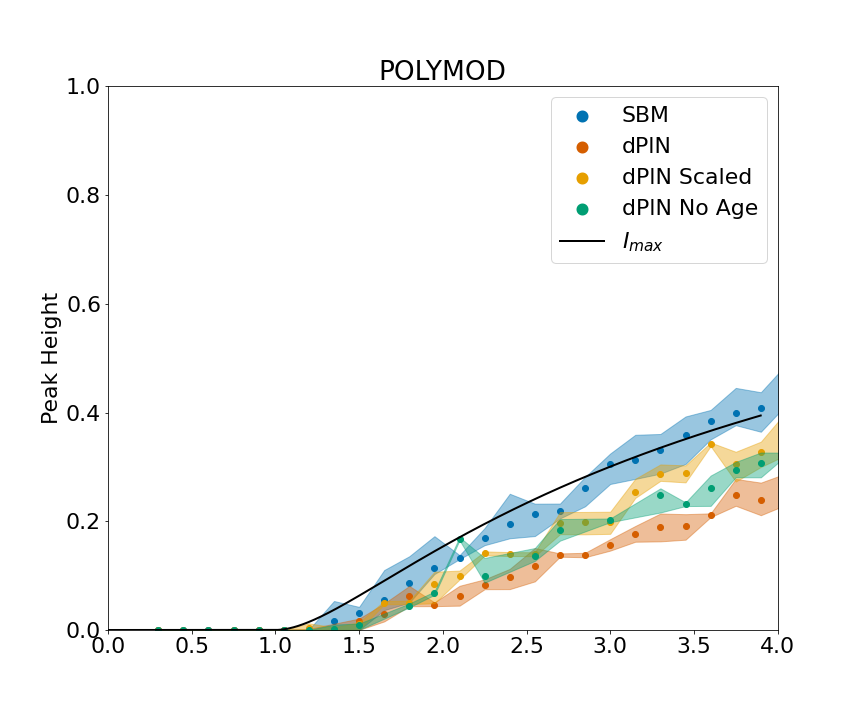
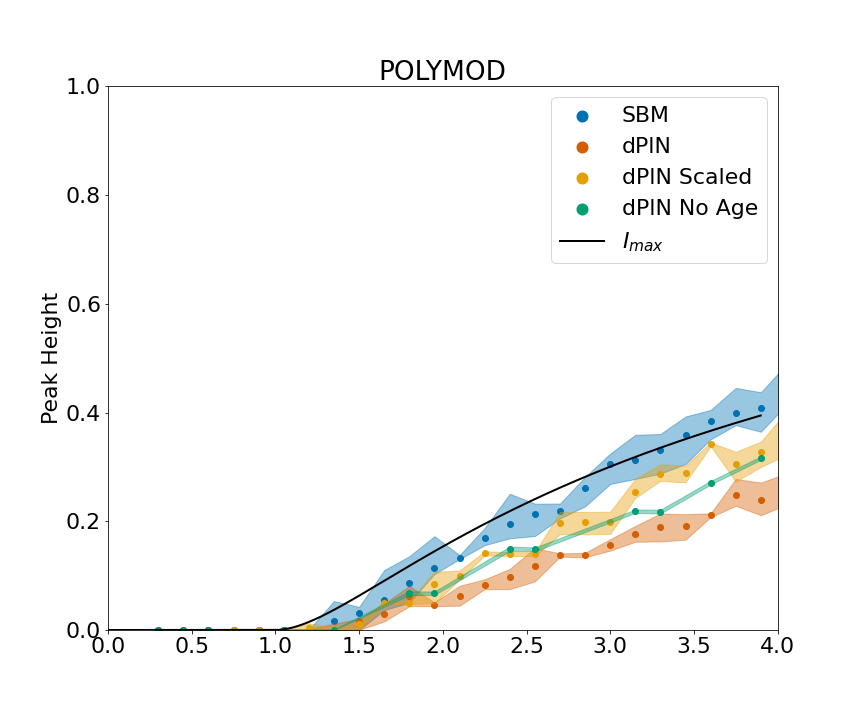
no age comix2 fixes

Changed region(s): [[0.4375, 0.6111, 0.9062, 0.8556], [0.375, 0.8556, 0.4375, 0.8861]]

diff --git a/_final_sellke_noage_c2.py b/_final_sellke_noage_c2.py
@@ -22,7 +22,7 @@ scales = ['fit1']
 
 ## 0,1
 # taus = [[np.arange(0.001,0.07,0.002)]]
-# taus = [[np.arange(0.001,0.07,0.002)]]
+taus = [[np.arange(0.001,0.07,0.002)]]
 # taus = [[np.arange(0.001,0.05,0.002)]]
 # taus = [[10*x for x in a] for a in taus]
 ## 2,3
@@ -32,7 +32,7 @@ scales = ['fit1']
 # taus = [[20*x for x in a] for a in taus]
 ## 4,5
 # taus = [[np.arange(0.001,0.07,0.001)]]
-taus = [[np.arange(0.001,0.05,0.001)]]
+# taus = [[np.arange(0.001,0.05,0.001)]]
 # taus = [[np.arange(0.001,0.05,0.002)]]
 
 
@@ -47,6 +47,6 @@ for i, data in enumerate(datas):
         df = pd.read_csv(f'input_data/{data}.csv')
         _, contact_matrix, params = nd_p.fit_to_data(df=df,dist_type=model, buckets=buckets, save_fig=False)
         result = nd_p.big_sellke_sims(partitions=partitions,contact_matrix=contact_matrix,network_params=params,n=n,dist_type=model,num_networks=1,iterations=iters, taus=taus[i][j],prop_infec=10/n, scaling=scales[j])
-        with open(f'../output_data/simulations/big/sellke/SIR/5_{data}_{model}_{scales[j]}_noage.json','w') as f:
+        with open(f'../output_data/simulations/big/sellke/SIR/0_{data}_{model}_{scales[j]}_noage.json','w') as f:
             json.dump(result, f)
 print('done')
